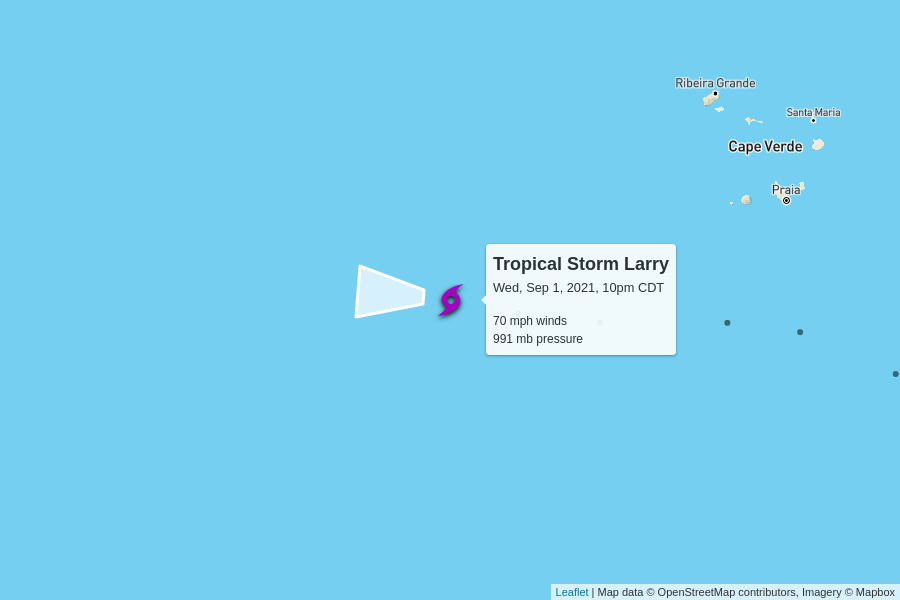
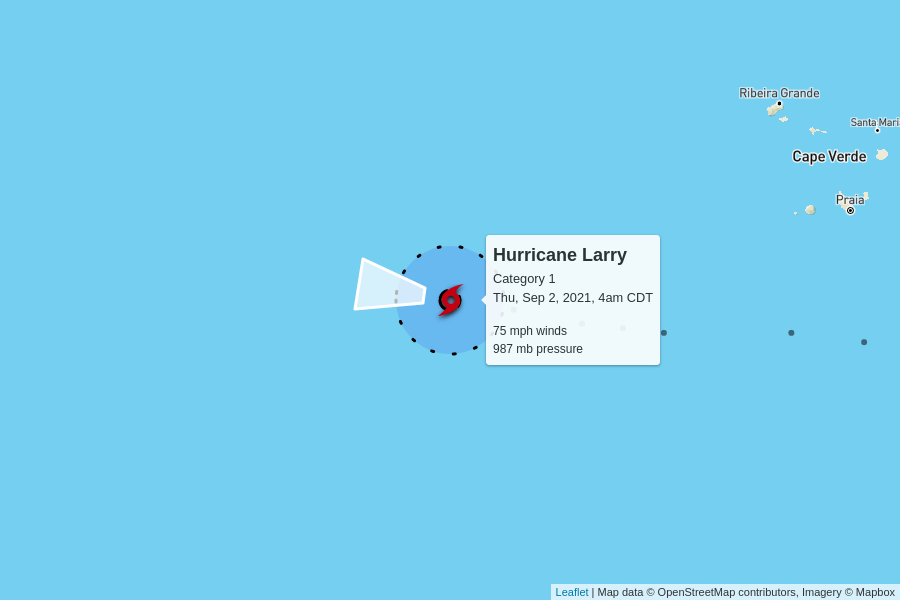
automatic update

diff --git a/docs/index.html b/docs/index.html
@@ -97,10 +97,10 @@
 
     <table>
       <tr>
-        <td colspan="6" class="storm category-0">
+        <td colspan="6" class="storm category-1">
           <h2>
-            Tropical Storm Larry
-            <p class="updated">last updated <span data-time>2021-09-02T03:00:00.000Z</span></p>
+            Hurricane Larry - Category 1
+            <p class="updated">last updated <span data-time>2021-09-02T09:00:00.000Z</span></p>
           </h2>
         </td>
       </tr>
@@ -115,12 +115,12 @@
       </tr>
       <tr>
         <td class="spacer"></td>
-        <td>70 mph</td>
-        <td>991 mb</td>
+        <td>75 mph</td>
+        <td>987 mb</td>
         <td>
-          21 mph to the west
+          20 mph to the west
           <br/>
-          <span style="display: inline-block; font-size: 1.5em; transform: rotate(275deg);">↑</span>
+          <span style="display: inline-block; font-size: 1.5em; transform: rotate(280deg);">↑</span>
         </td>
         <td><a href="https://raw.githubusercontent.com/mgwalker/atlantic-hurricanes/main/data/csv/AL122021.csv">AL122021.csv</a></td>
         <td><a href="https://www.nhc.noaa.gov/archive/2021/LARRY.shtml?">NHC advisories</a></td>
